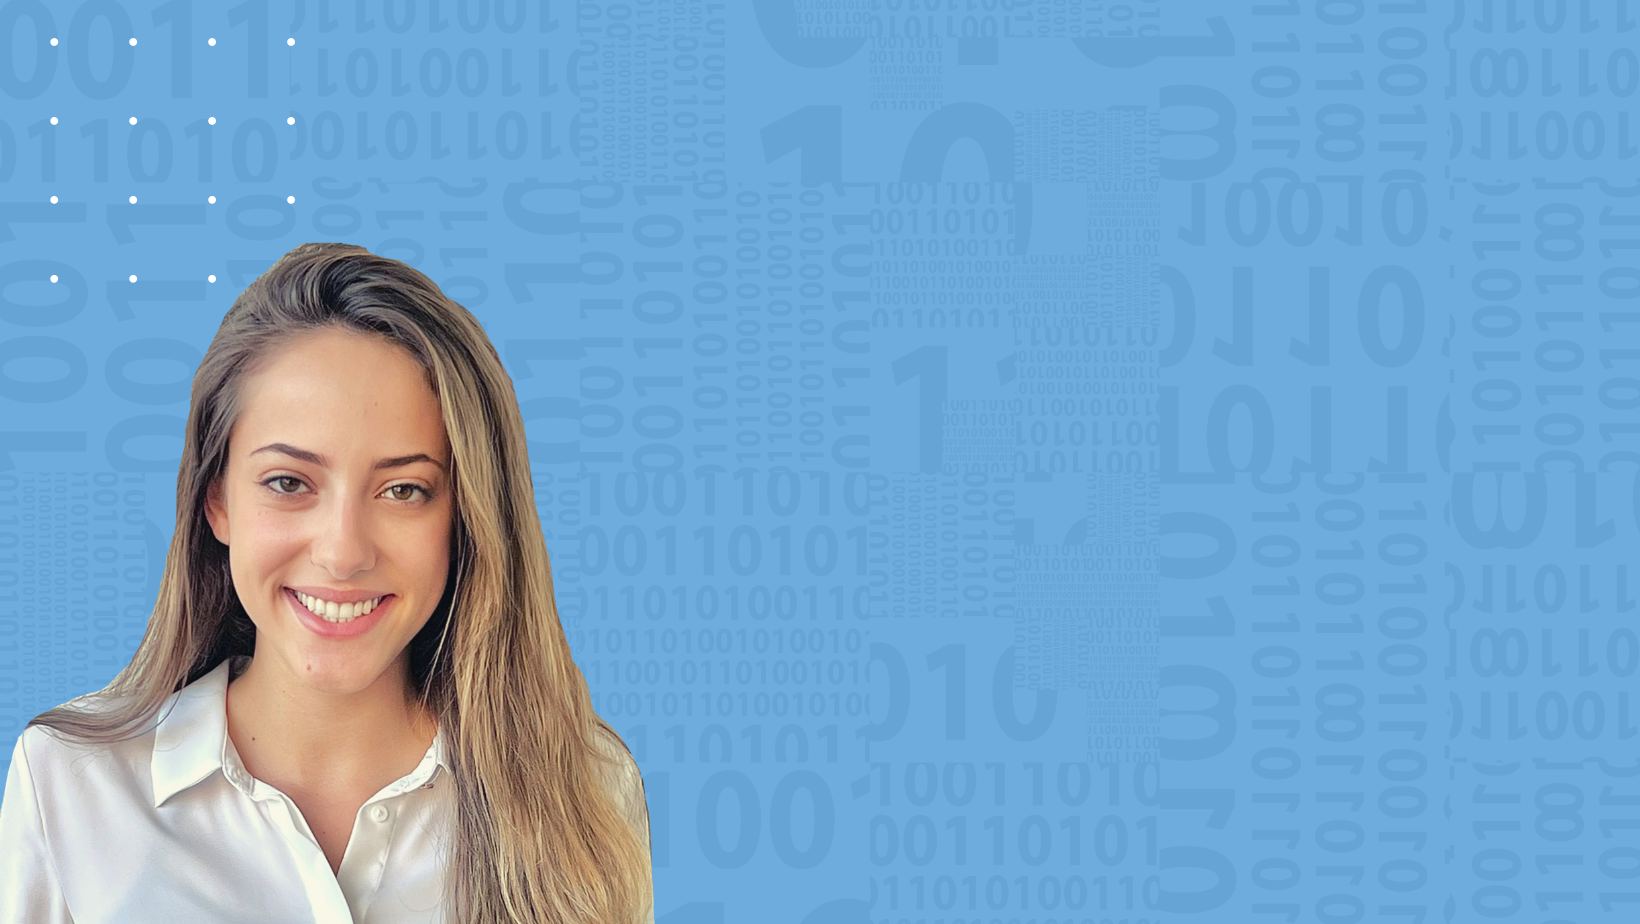
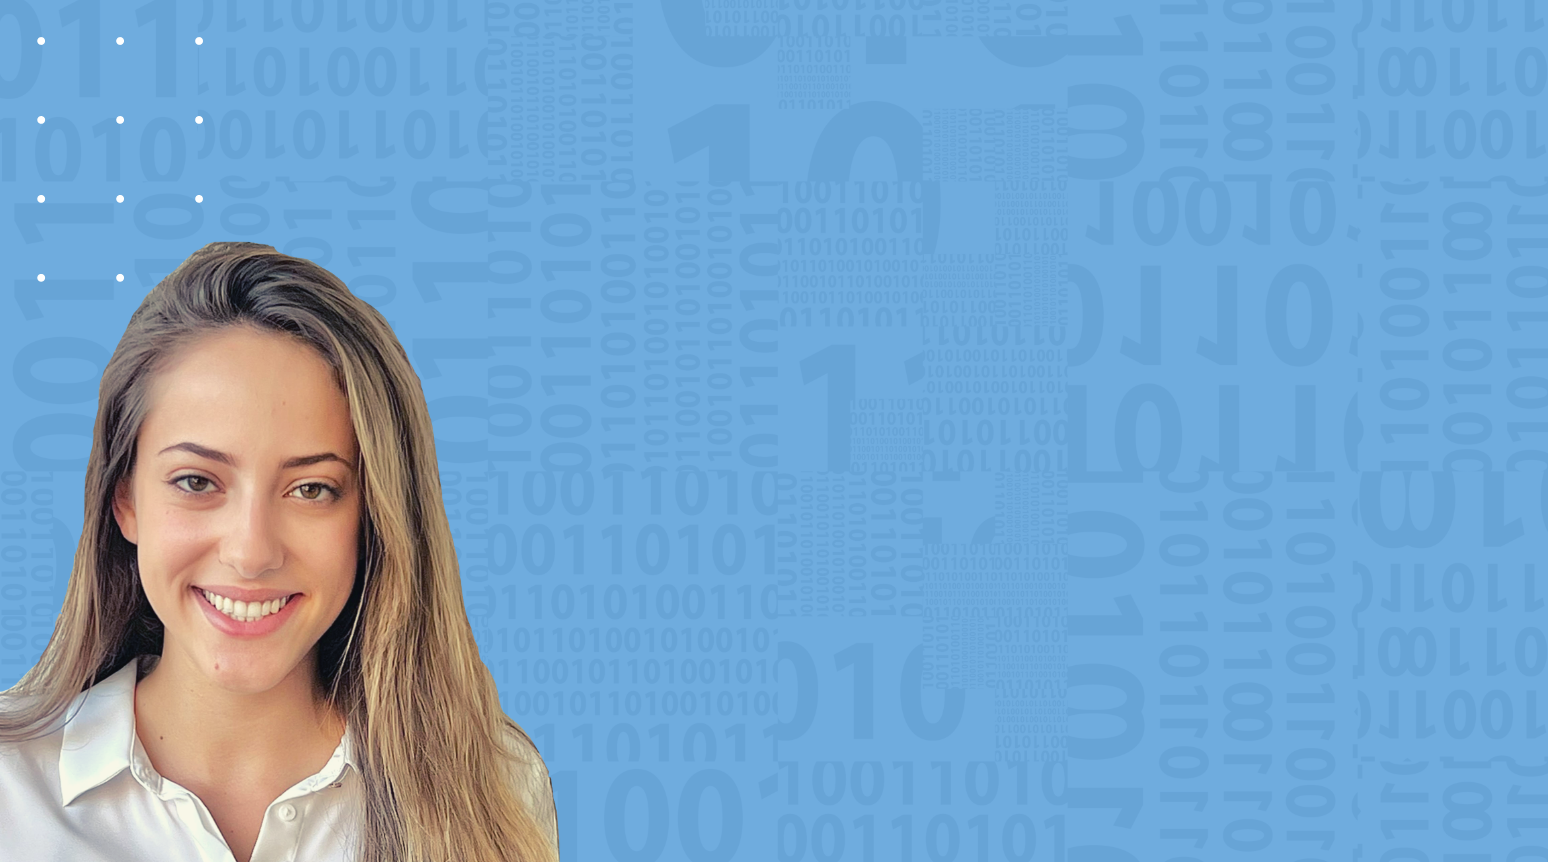
added

Changed region(s): [[0.0, 0.2413, 0.4031, 1.0]]

diff --git a/index.html b/index.html
@@ -4,17 +4,38 @@
   <meta charset="utf-8">
   <title>Yuval Schwartz</title>
   <link href="https://unpkg.com/tailwindcss@^2/dist/tailwind.min.css" rel="stylesheet">
+  <link rel="preconnect" href="https://fonts.googleapis.com">
+<link rel="preconnect" href="https://fonts.gstatic.com" crossorigin>
+<link href="https://fonts.googleapis.com/css2?family=Belleza&family=Inspiration&family=Lato:ital,wght@0,100;0,300;0,400;0,700;0,900;1,300;1,400;1,700;1,900&family=Montserrat:ital,wght@0,400;0,600;0,700;1,500;1,900&family=Open+Sans:wght@300;400&family=Playfair+Display:ital,wght@0,400;0,500;1,500&family=Poppins:ital,wght@0,100;0,200;0,300;0,500;0,600;0,800;0,900;1,300;1,700&family=Quicksand:wght@300;400&display=swap" rel="stylesheet">
   <meta name="description" content="Description Goes Here">
   <link rel="stylesheet" href="style.css">
 </head>
 <body>
+    <style>
+        body {
+           background-image: url("yuval-schwartz-background2.png");
+        }
+     </style>
 <div class="relative">
-    <span class="flex justify-center flex-row absolute top-16 max-w-md mx-auto bg-white ">
-        <h1>hey2</h1>
+    <span class="flex justify-end absolute top-10 right-10 max-w-md mx-auto">
+    <h1 class="text-white body text-xl hover:border-b hover:border-white cursor-pointer">WORK</h1>
     </span>
-    <img class="z-0 h-screen w-full hidden lg:inline-block" src="YUVAL_SCHWARTZ2.png" height="100" width="100">
+    <div class="bg-white h-4/6 w-full absolute top-40 right-60 max-w-md mx-auto rounded">
+    <h1 class="title text-4xl text-black text-center justify-center">Yuval Schwartz</h1>
+    <h2 class="title text-xl text-black text-center justify-center">Full-Stack Web Developer</h2>
+    <div class="flex justify-center flex-row">
+    <button class="rounded-full py-1 px-2 bg-green-300">#HTML</button>
+    <button>#CSS</button>
+    </div>
+    <div class="flex justify-center flex-row">
+        <button>#JavaScript</button>
+        <button>#React</button>
+        <button>#Node.js</button>
+    </div>
+    </div>
+    <!-- <img class="z-0 h-screen w-full hidden lg:inline-block" src="YUVAL_SCHWARTZ2.png" height="100" width="100"> -->
     <!-- <img class="z-0 h-screen w-full hidden sm:hidden md:inline-block" src="background.png" height="100" width="100"> -->
-    <img class="z-0 h-full w-full lg:hidden" src="Yuval-mobile.png" height="100" width="100">
+    <!-- <img class="z-0 h-screen w-full lg:hidden" src="Yuval-mobile.png" height="100" width="100"> -->
 </div>
  
 </body>

diff --git a/style.css b/style.css
@@ -1,3 +1,10 @@
+/* colors:
+green: #7ed957
+blue: #38b6ff
+pink: #ff66c4
+purple: #cb6ce6
+blue2 : #5271ff */
+
 html {
     box-sizing: border-box;
   }
@@ -8,3 +15,25 @@ html {
   body , html{
       height: 100%;
   }
+  .title{
+    font-family: 'Belleza', sans-serif;
+  }
+  .body{
+    font-family: "Lato", Helvetica, Arial, sans-serif; 
+    font-weight: 500;
+  }
+  .bg_blue{
+      background-color: #38b6ff;
+  }
+  .green{
+    background-color: #7ed957;
+    }
+    .bg_blue2{
+        background-color: #5271ff;
+    }
+    .bg_pink{
+        background-color: #ff66c4;
+    }
+    .bg-purple{
+        background-color: #cb6ce6
+    }
